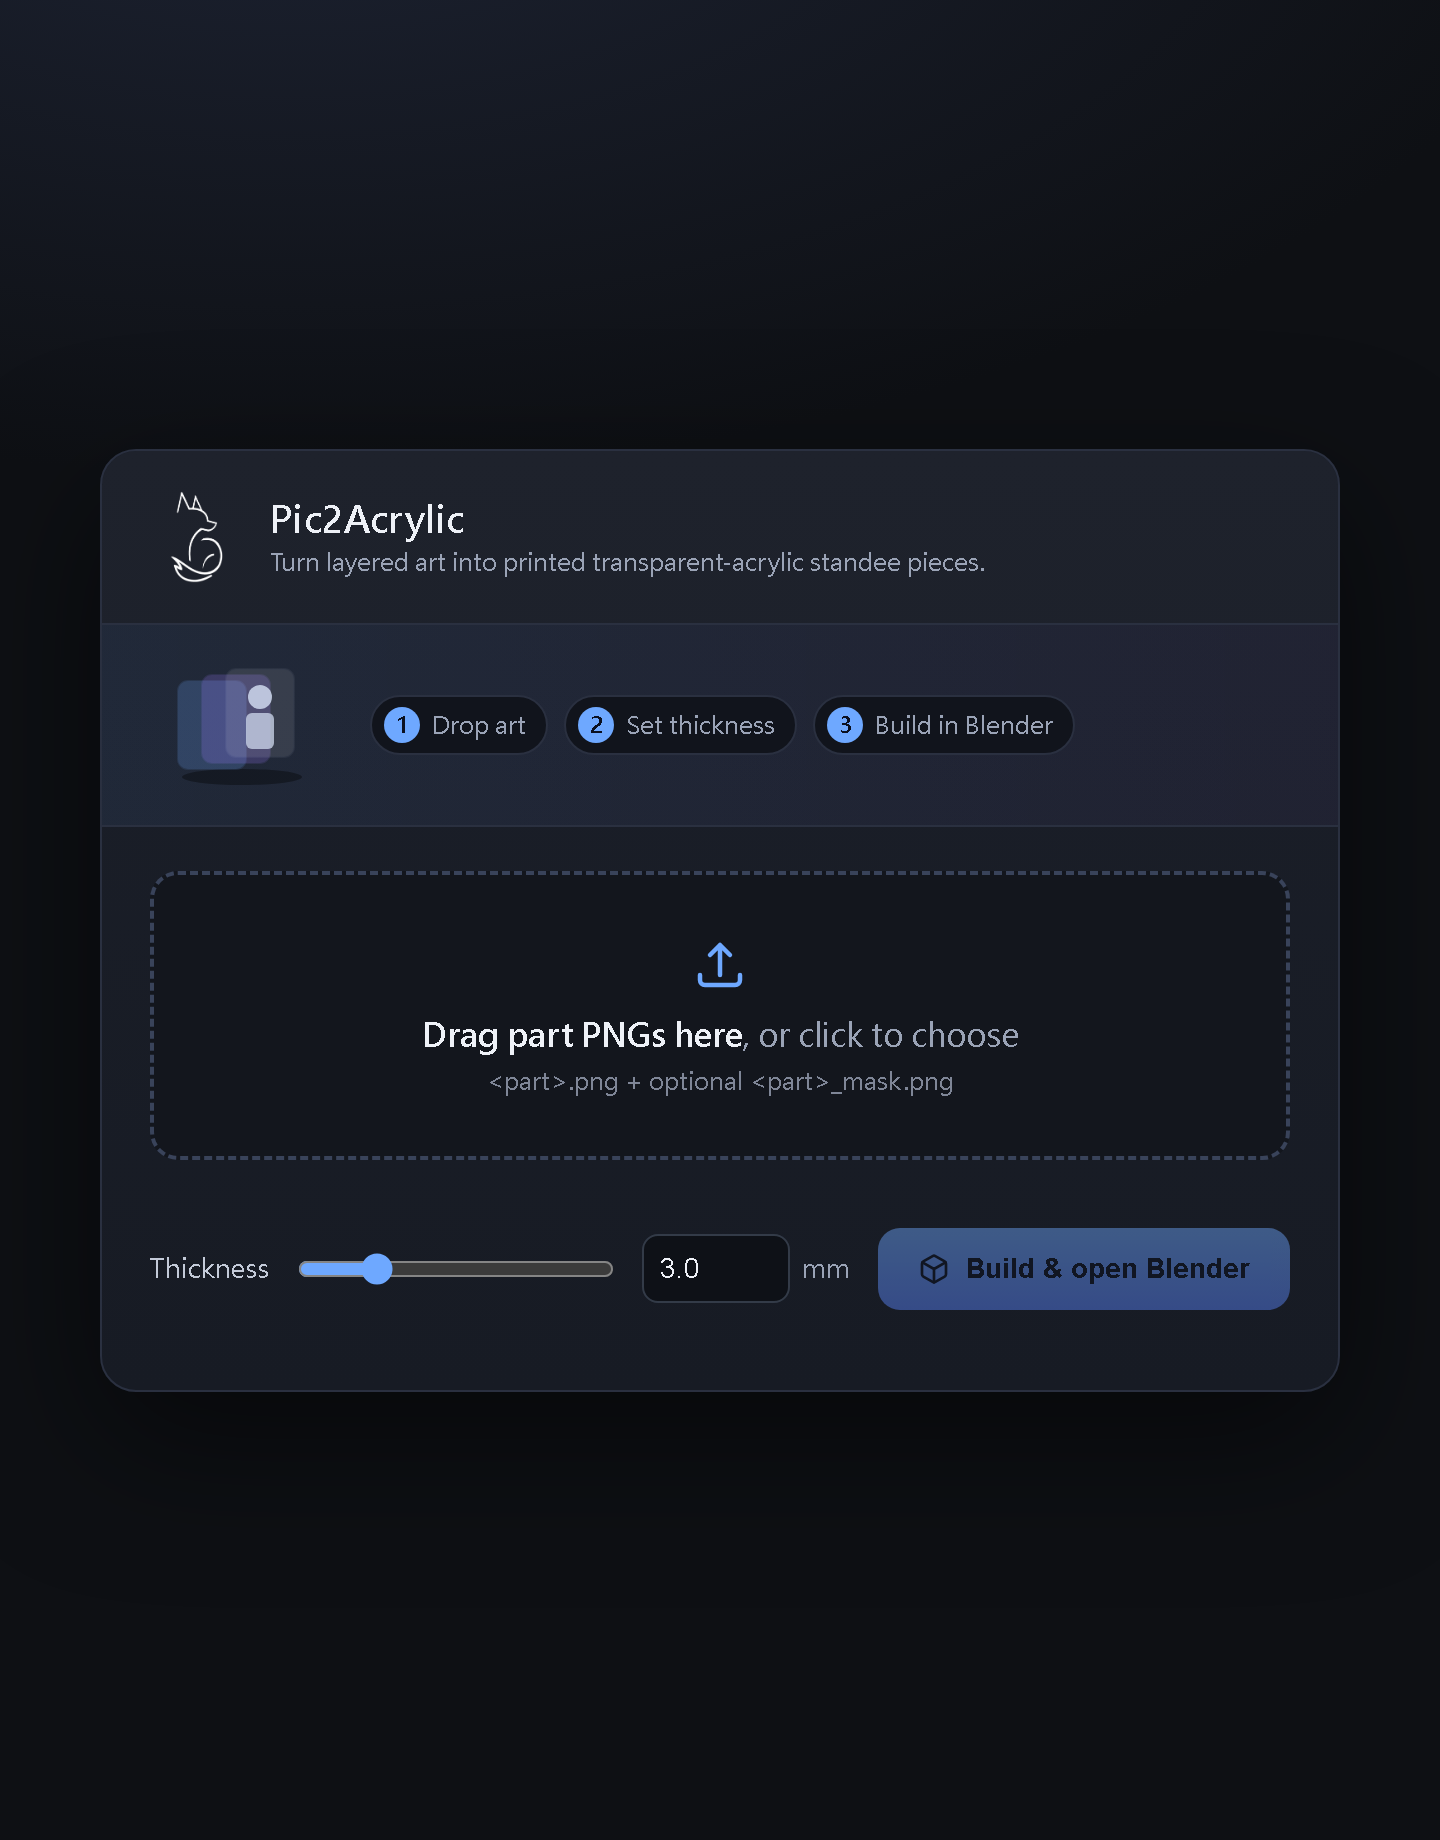
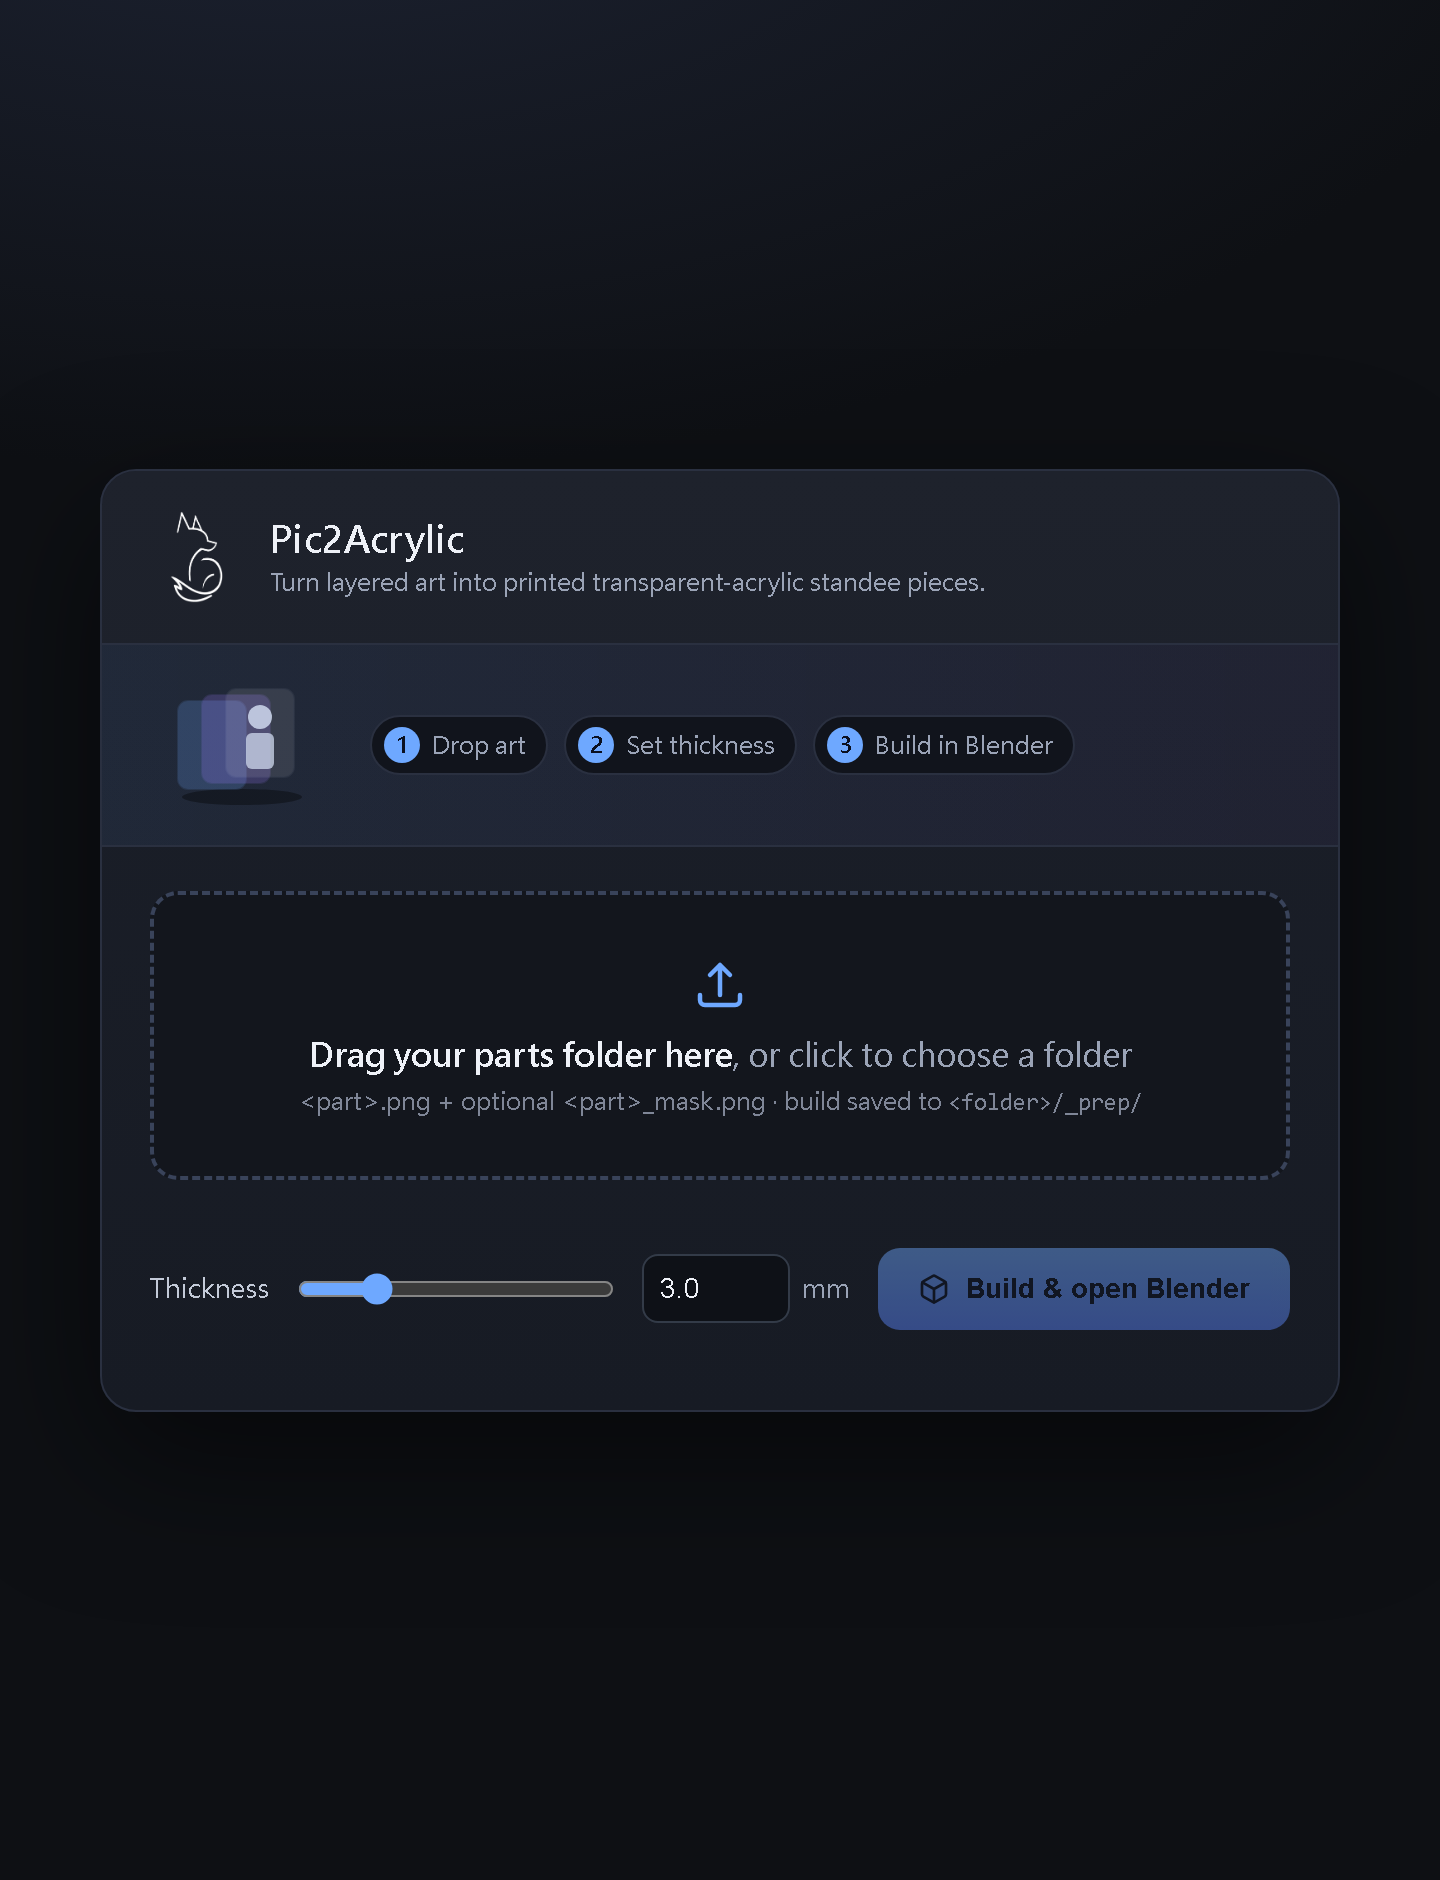
feat(ui): drag a whole folder; save self-contained .blend into <folder>/_prep
- Web UI now takes a folder via drag or picker (File System Access API), reads
  its PNGs, and writes the built acrylic.blend back into a _prep subfolder of
  that same folder. Falls back to loose-file upload where unsupported.
- /build now builds headless (synchronous) so the file exists for write-back,
  packs textures so the copied .blend is portable, then opens it in the GUI.
- build_acrylic.py: optional ACRYLIC_PACK to embed textures (off by default,
  so the .bat/path flow keeps light external-reference .blends).
- Updated screenshot + README.

diff --git a/web_ui.py b/web_ui.py
@@ -14,7 +14,7 @@ import shutil
 import subprocess
 import sys
 
-from flask import Flask, request, render_template_string, send_from_directory
+from flask import Flask, request, render_template_string, send_from_directory, jsonify
 
 HERE = pathlib.Path(__file__).resolve().parent
 WORK = HERE / "_web_work"          # uploads + prep output live here (gitignored)
@@ -191,8 +191,8 @@ PAGE = """<!doctype html>
         <svg class="ic" width="30" height="30" viewBox="0 0 24 24" fill="none" stroke="#6ea8ff" stroke-width="1.8" stroke-linecap="round" stroke-linejoin="round">
           <path d="M12 16V4M12 4l-4 4M12 4l4 4"/><path d="M4 16v2a2 2 0 0 0 2 2h12a2 2 0 0 0 2-2v-2"/>
         </svg>
-        <div><b>Drag part PNGs here</b>, or click to choose</div>
-        <div style="font-size:12px;margin-top:5px;opacity:.8">&lt;part&gt;.png + optional &lt;part&gt;_mask.png</div>
+        <div><b>Drag your parts folder here</b>, or click to choose a folder</div>
+        <div style="font-size:12px;margin-top:5px;opacity:.8">&lt;part&gt;.png + optional &lt;part&gt;_mask.png &middot; build saved to <code>&lt;folder&gt;/_prep/</code></div>
       </div>
       <input id="picker" type="file" accept=".png,image/png" multiple hidden>
       <ul id="files"></ul>
@@ -221,14 +221,10 @@ PAGE = """<!doctype html>
         list=document.getElementById('files'), buildBtn=document.getElementById('build'),
         statusEl=document.getElementById('status'),
         range=document.getElementById('trange'), num=document.getElementById('thickness');
-  let chosen=[];
+  let chosen=[], dirHandle=null;
 
   function setStatus(m,c){ statusEl.textContent=m; statusEl.className=(m?'show ':'')+(c||''); }
-  function addFiles(fl){
-    for(const f of fl)
-      if(f.name.toLowerCase().endsWith('.png') && !chosen.some(c=>c.name===f.name)) chosen.push(f);
-    render();
-  }
+
   function render(){
     list.innerHTML='';
     chosen.forEach((f,i)=>{
@@ -247,24 +243,73 @@ PAGE = """<!doctype html>
     buildBtn.disabled = chosen.length===0;
   }
 
-  drop.onclick=()=>picker.click();
-  picker.onchange=e=>addFiles(e.target.files);
+  function addFiles(fl){
+    for(const f of fl)
+      if(f.name.toLowerCase().endsWith('.png') && !chosen.some(c=>c.name===f.name)) chosen.push(f);
+    render();
+  }
+
+  async function useDirectory(handle){
+    dirHandle=handle;
+    try{ if(handle.requestPermission) await handle.requestPermission({mode:'readwrite'}); }catch(_){}
+    chosen=[];
+    for await (const [name,h] of handle.entries())
+      if(h.kind==='file' && name.toLowerCase().endsWith('.png')) chosen.push(await h.getFile());
+    render();
+    setStatus(chosen.length
+      ? 'Folder \"'+handle.name+'\" - '+chosen.length+' PNG(s). Build saves to '+handle.name+'/_prep/.'
+      : 'No PNGs found in that folder.', chosen.length?'':'err');
+  }
+
+  drop.onclick=async()=>{
+    if(window.showDirectoryPicker){
+      try{ await useDirectory(await window.showDirectoryPicker({mode:'readwrite'})); }catch(_){}
+    } else { picker.click(); }
+  };
+  picker.onchange=e=>{ dirHandle=null; addFiles(e.target.files); };
+
   ['dragenter','dragover'].forEach(ev=>drop.addEventListener(ev,e=>{e.preventDefault();drop.classList.add('hover');}));
-  ['dragleave','drop'].forEach(ev=>drop.addEventListener(ev,e=>{e.preventDefault();drop.classList.remove('hover');}));
-  drop.addEventListener('drop',e=>addFiles(e.dataTransfer.files));
+  drop.addEventListener('dragleave',e=>{e.preventDefault();drop.classList.remove('hover');});
+  drop.addEventListener('drop',async e=>{
+    e.preventDefault(); drop.classList.remove('hover');
+    const loose=e.dataTransfer.files;
+    let promises=[];
+    if(window.DataTransferItem && DataTransferItem.prototype.getAsFileSystemHandle)
+      promises=[...e.dataTransfer.items].filter(it=>it.kind==='file').map(it=>it.getAsFileSystemHandle());
+    for(const p of promises){
+      try{ const h=await p; if(h && h.kind==='directory'){ await useDirectory(h); return; } }catch(_){}
+    }
+    dirHandle=null; addFiles(loose);
+  });
 
   range.oninput=()=>{ num.value=range.value; };
   num.oninput=()=>{ const v=parseFloat(num.value); if(!isNaN(v)) range.value=Math.min(10,Math.max(1,v)); };
 
   buildBtn.onclick=async()=>{
-    buildBtn.disabled=true; setStatus('Tracing masks and launching Blender...','');
+    buildBtn.disabled=true;
+    setStatus('Tracing masks and building in Blender (headless)... this can take ~10-30s.','');
     const fd=new FormData();
     chosen.forEach(f=>fd.append('files',f,f.name));
     fd.append('thickness',num.value);
-    try{ const r=await fetch('/build',{method:'POST',body:fd}); const t=await r.text();
-         setStatus(t, r.ok?'ok':'err'); }
-    catch(err){ setStatus('Request failed: '+err,'err'); }
-    buildBtn.disabled = chosen.length===0;
+    try{
+      const r=await fetch('/build',{method:'POST',body:fd});
+      const j=await r.json();
+      if(!r.ok || !j.ok){ setStatus(j.message||'Build failed.','err'); buildBtn.disabled=chosen.length===0; return; }
+      let msg=j.message;
+      if(dirHandle){
+        try{
+          const buf=await (await fetch('/result.blend')).arrayBuffer();
+          const prep=await dirHandle.getDirectoryHandle('_prep',{create:true});
+          const fh=await prep.getFileHandle('acrylic.blend',{create:true});
+          const w=await fh.createWritable(); await w.write(buf); await w.close();
+          msg+='\\nSaved to '+dirHandle.name+'/_prep/acrylic.blend';
+        }catch(err){ msg+='\\nCould not write into the folder ('+err+'); it is open in Blender, save manually.'; }
+      } else {
+        msg+='\\nTip: drag a FOLDER (not loose files) so the .blend saves into it.';
+      }
+      setStatus(msg,'ok');
+    }catch(err){ setStatus('Request failed: '+err,'err'); }
+    buildBtn.disabled=chosen.length===0;
   };
 </script>
 </body>
@@ -279,6 +324,12 @@ def index():
 @app.route("/logo.png")
 def logo():
     return send_from_directory(HERE / "assets", "logo.png")
+
+
[email redacted]("/result.blend")
+def result_blend():
+    """The last built .blend, so the browser can copy it into the user's folder."""
+    return send_from_directory(WORK / "prep", "acrylic.blend")
 
 
 @app.route("/build", methods=["POST"])
@@ -313,17 +364,24 @@ def build():
         [sys.executable, str(HERE / "prep_masks.py"), str(parts), "-o", str(prep)],
         capture_output=True, text=True)
     if r.returncode != 0:
-        return (f"Stage 1 (prep_masks) failed:\n{r.stderr or r.stdout}", 500)
+        return jsonify(ok=False, message=f"Stage 1 (prep_masks) failed:\n{r.stderr or r.stdout}"), 500
 
-    # stage 2: launch Blender GUI (non-blocking) with thickness via env
-    env = dict(os.environ, ACRYLIC_THICKNESS_MM=str(thickness))
-    subprocess.Popen(
-        [blender, "--python", str(HERE / "build_acrylic.py"), "--",
-         str(prep / "manifest.json"), str(prep / "acrylic.blend")],
-        env=env)
+    # stage 2: build the .blend headless first (so it exists for write-back), with
+    # textures packed so the copy is portable, then open that built file in the GUI.
+    blend = prep / "acrylic.blend"
+    env = dict(os.environ, ACRYLIC_THICKNESS_MM=str(thickness), ACRYLIC_PACK="1")
+    b = subprocess.run(
+        [blender, "--background", "--factory-startup", "--python",
+         str(HERE / "build_acrylic.py"), "--", str(prep / "manifest.json"), str(blend)],
+        env=env, capture_output=True, text=True)
+    if b.returncode != 0 or not blend.exists():
+        return jsonify(ok=False, message=f"Stage 2 (build_acrylic) failed:\n{b.stderr or b.stdout}"), 500
 
-    return (f"Prepared {len(pngs)} file(s) at {thickness} mm thickness.\n"
-            f"{r.stdout.strip()}\nLaunching Blender...")
+    # open the built standee in the Blender GUI (non-blocking)
+    subprocess.Popen([blender, str(blend)])
+
+    return jsonify(ok=True,
+                   message=f"Built {len(pngs)} file(s) at {thickness} mm. Opened in Blender.")
 
 
 if __name__ == "__main__":

diff --git a/build_acrylic.py b/build_acrylic.py
@@ -312,6 +312,15 @@ def main():
 
     build(manifest_path)
 
+    # Optional: embed the textures so the .blend is portable (web UI sets this,
+    # since its .blend gets copied into the user's folder away from the images).
+    if os.environ.get("ACRYLIC_PACK", "0").lower() in ("1", "true", "yes"):
+        try:
+            bpy.ops.file.pack_all()
+            print("[packed] textures embedded")
+        except Exception as e:
+            print(f"[pack] skipped: {e}")
+
     if out_blend:
         out_blend = os.path.abspath(out_blend)
         bpy.ops.wm.save_as_mainfile(filepath=out_blend)

diff --git a/README.md b/README.md
@@ -17,11 +17,15 @@ preview in Blender — before sending anything to an acrylic print shop.
 ## Quick start
 
 1. Run **`web-ui.bat`** (installs dependencies on first run, opens the UI).
-2. Drag your part PNGs in — `<part>.png` plus an optional `<part>_mask.png`.
+2. Drag your **parts folder** in (or click to choose one) — it holds `<part>.png`
+   plus an optional `<part>_mask.png` for each piece.
 3. Set the **thickness (mm)** and click **Build** — it opens Blender with the standee
-   assembled, layers fanned apart and ready to arrange.
+   assembled (layers fanned apart) and writes a self-contained `acrylic.blend` into a
+   **`_prep` subfolder of your folder**.
 
-> All parts must share the same canvas pixel size (that's what keeps them aligned).
+> Folder drag + writing the `.blend` back into your folder uses the browser's File
+> System Access API — use a Chromium browser (Edge/Chrome) and allow write access when
+> prompted. All parts must share the same canvas pixel size (keeps them aligned).
 
 ## How it works
 